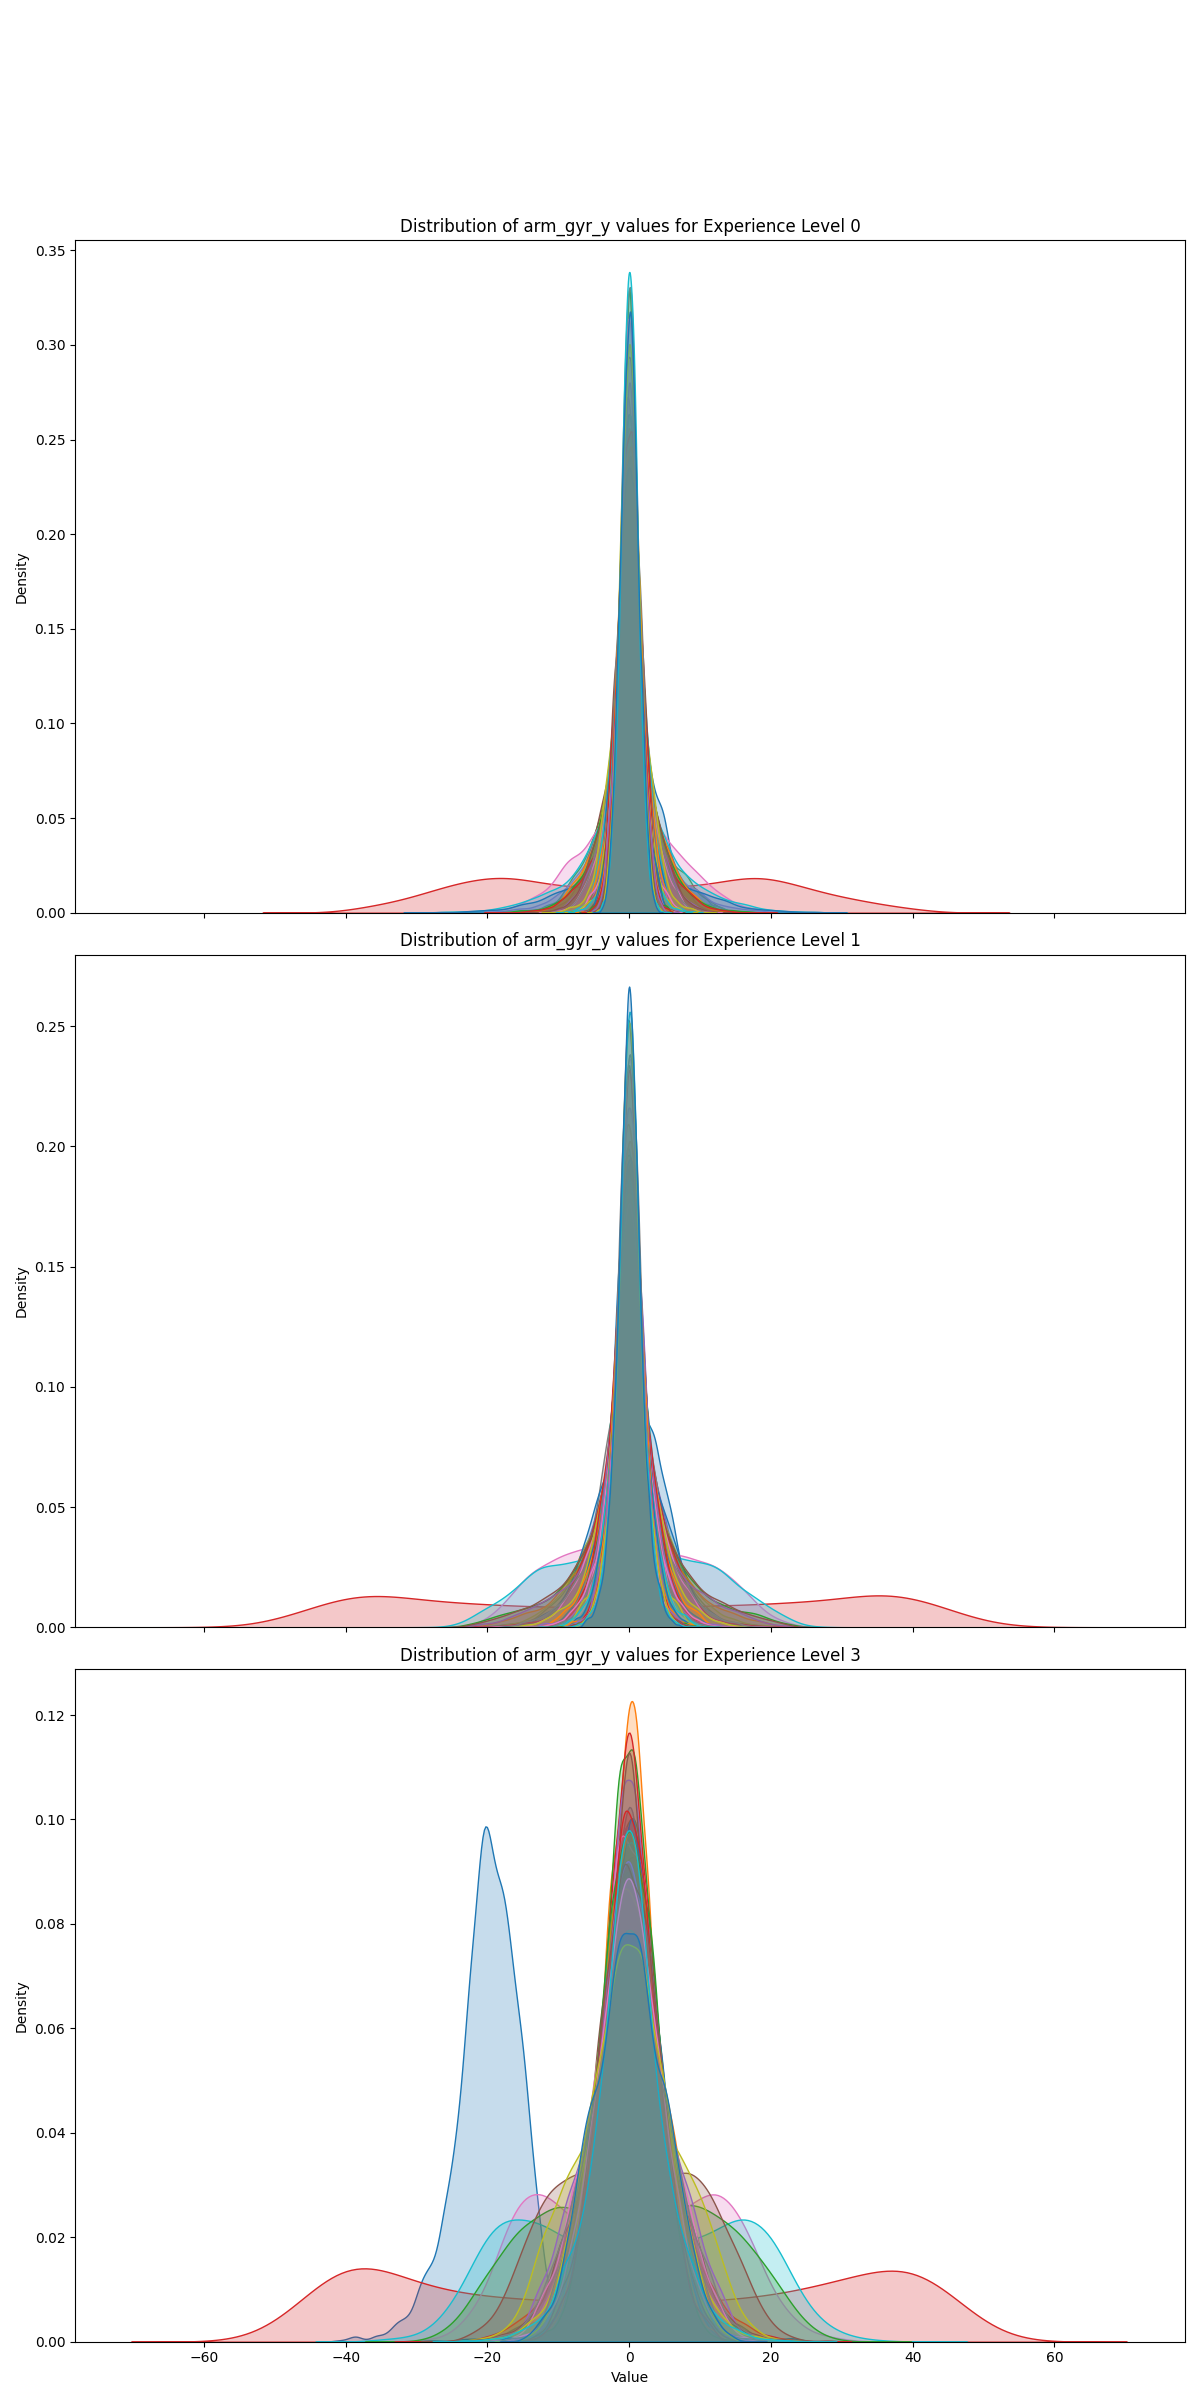
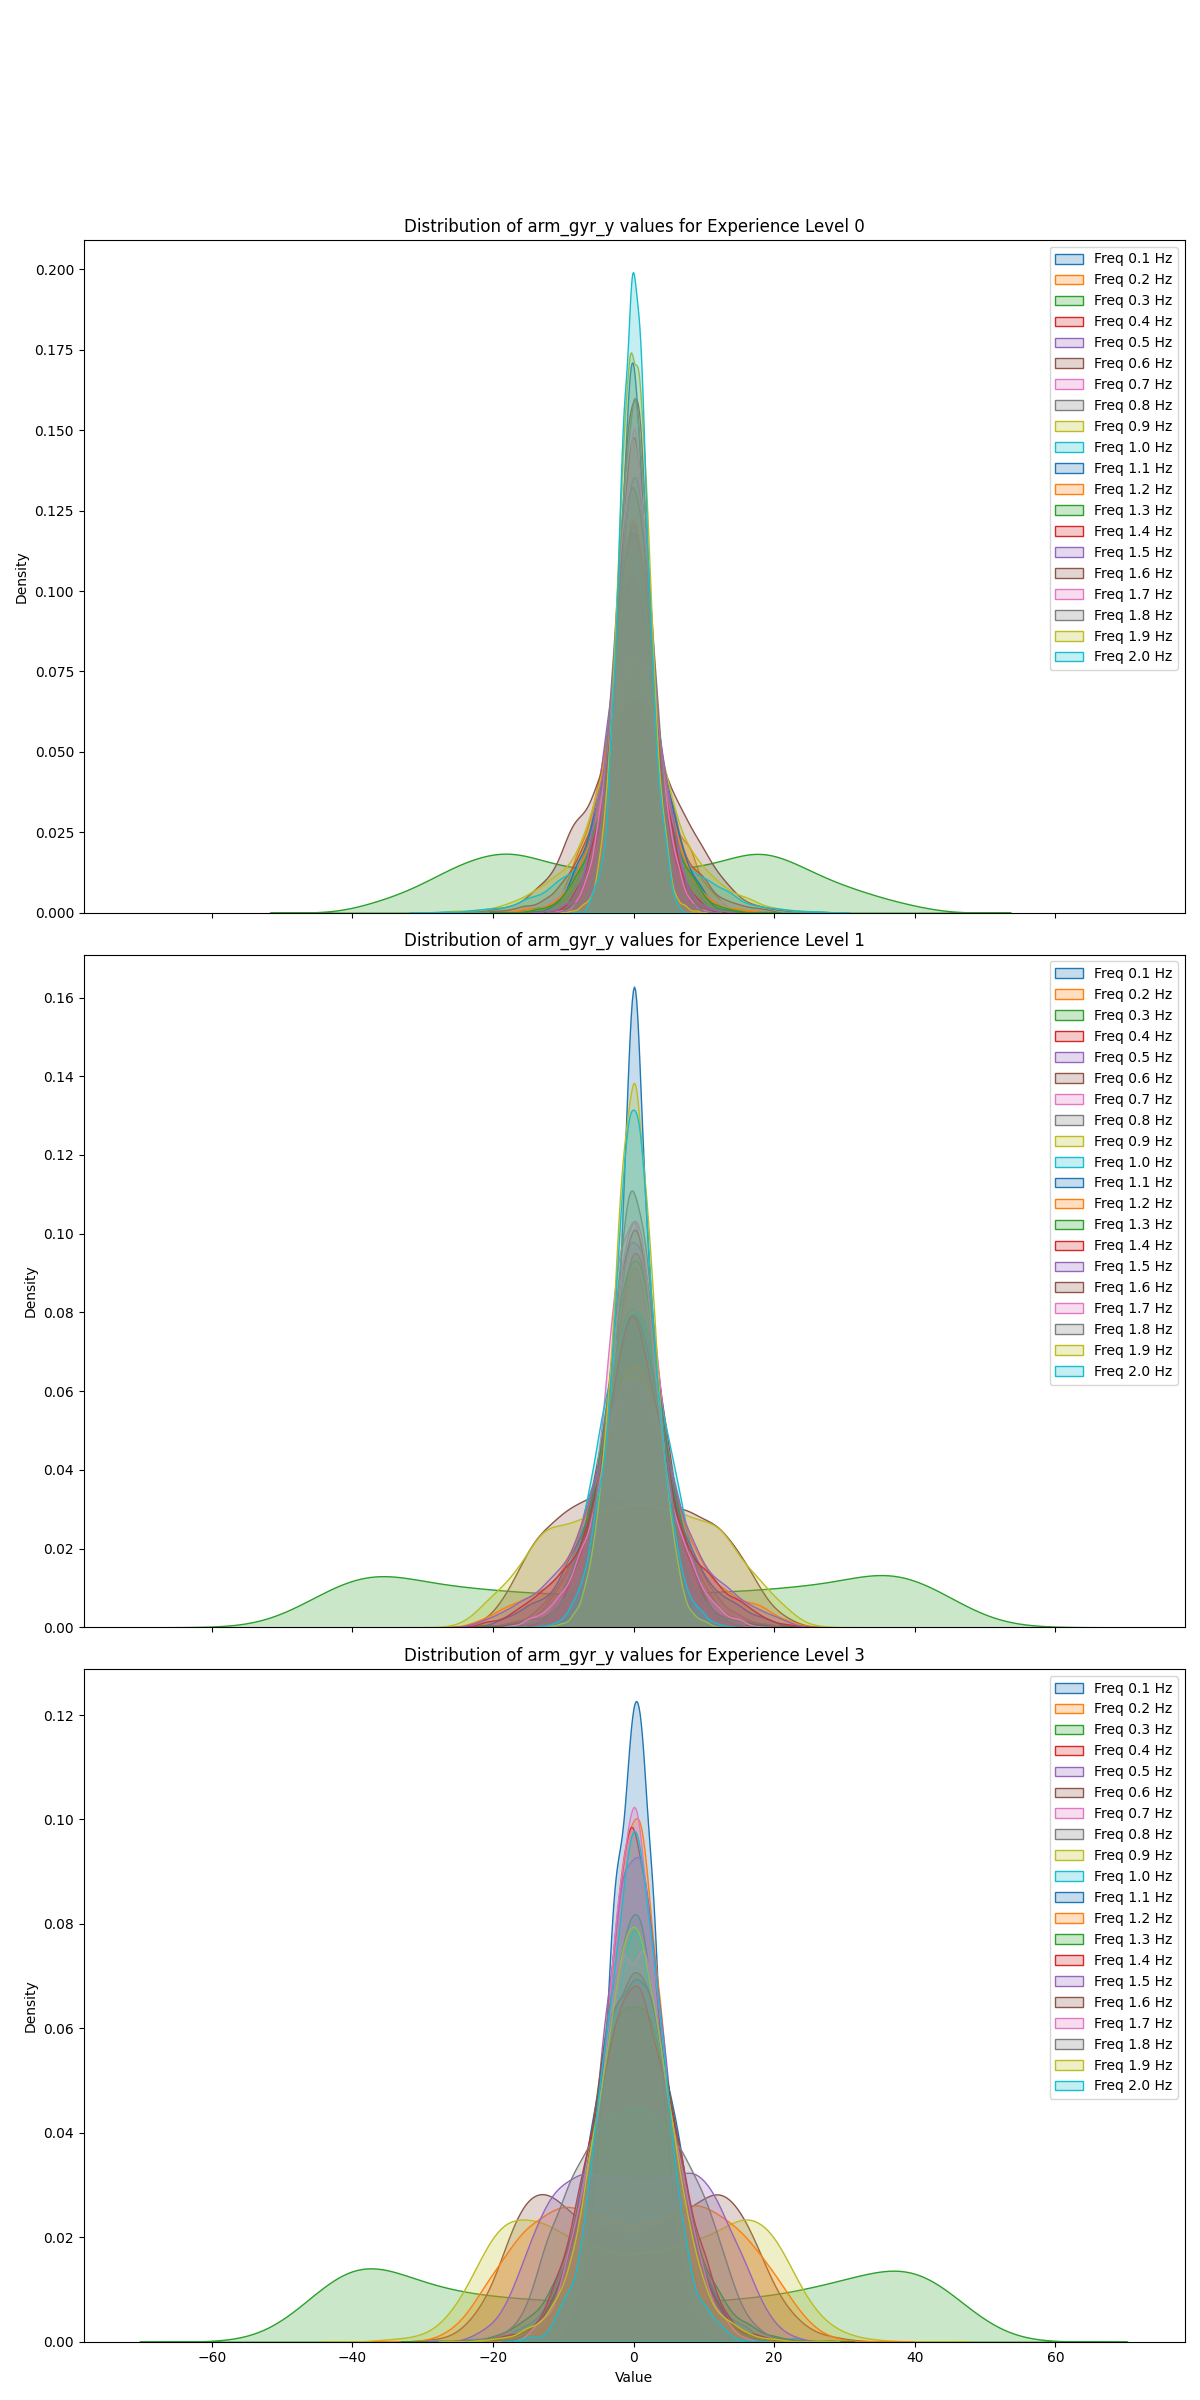
updated freq dist plots

diff --git a/visualisation_example.py b/visualisation_example.py
@@ -8,23 +8,26 @@ import os
 
 
 # read data and define a name
-data_path = "./measurement-data/full_data.csv"
+data_path = "./smaller_data.csv"
 data = pd.read_csv(data_path, index_col=0)
 
+path = os.path.abspath("./figures/freq_dist_per_lvl")
 
-data = fe.feature_engineer(data)
+features = ['arm_gyr_x', 'arm_gyr_y', 'arm_gyr_z', 'arm_acc_x', 'arm_acc_y', 'arm_acc_z', 'leg_gyr_x', 'leg_gyr_y', 'leg_gyr_z', 'leg_acc_x', 'leg_acc_y', 'leg_acc_z']
 
-print(data.columns)
-print(data.shape)
+for feature in features:
+    dv.create_freq_distributions_by_experience_level_plot(data, feature, path)
 
-data.to_csv("fe_data.csv")
+
+#data = fe.feature_engineer(data)
+
+#print(data.columns)
+#print(data.shape)
+
+#data.to_csv("fe_data.csv")
 
 """
 
-interpolate HR values per session_id
-print("nan before", data['HR'].isna().sum())
-data = interpolate(data, ['HR', 'pace', 'dist'], 'session_id')
-print("nan after", data['HR'].isna().sum())
 
 features = ['arm_gyr_x', 'arm_gyr_y', 'arm_gyr_z', 'arm_acc_x', 'arm_acc_y', 'arm_acc_z', 'leg_gyr_x', 'leg_gyr_y', 'leg_gyr_z', 'leg_acc_x', 'leg_acc_y', 'leg_acc_z']
 
